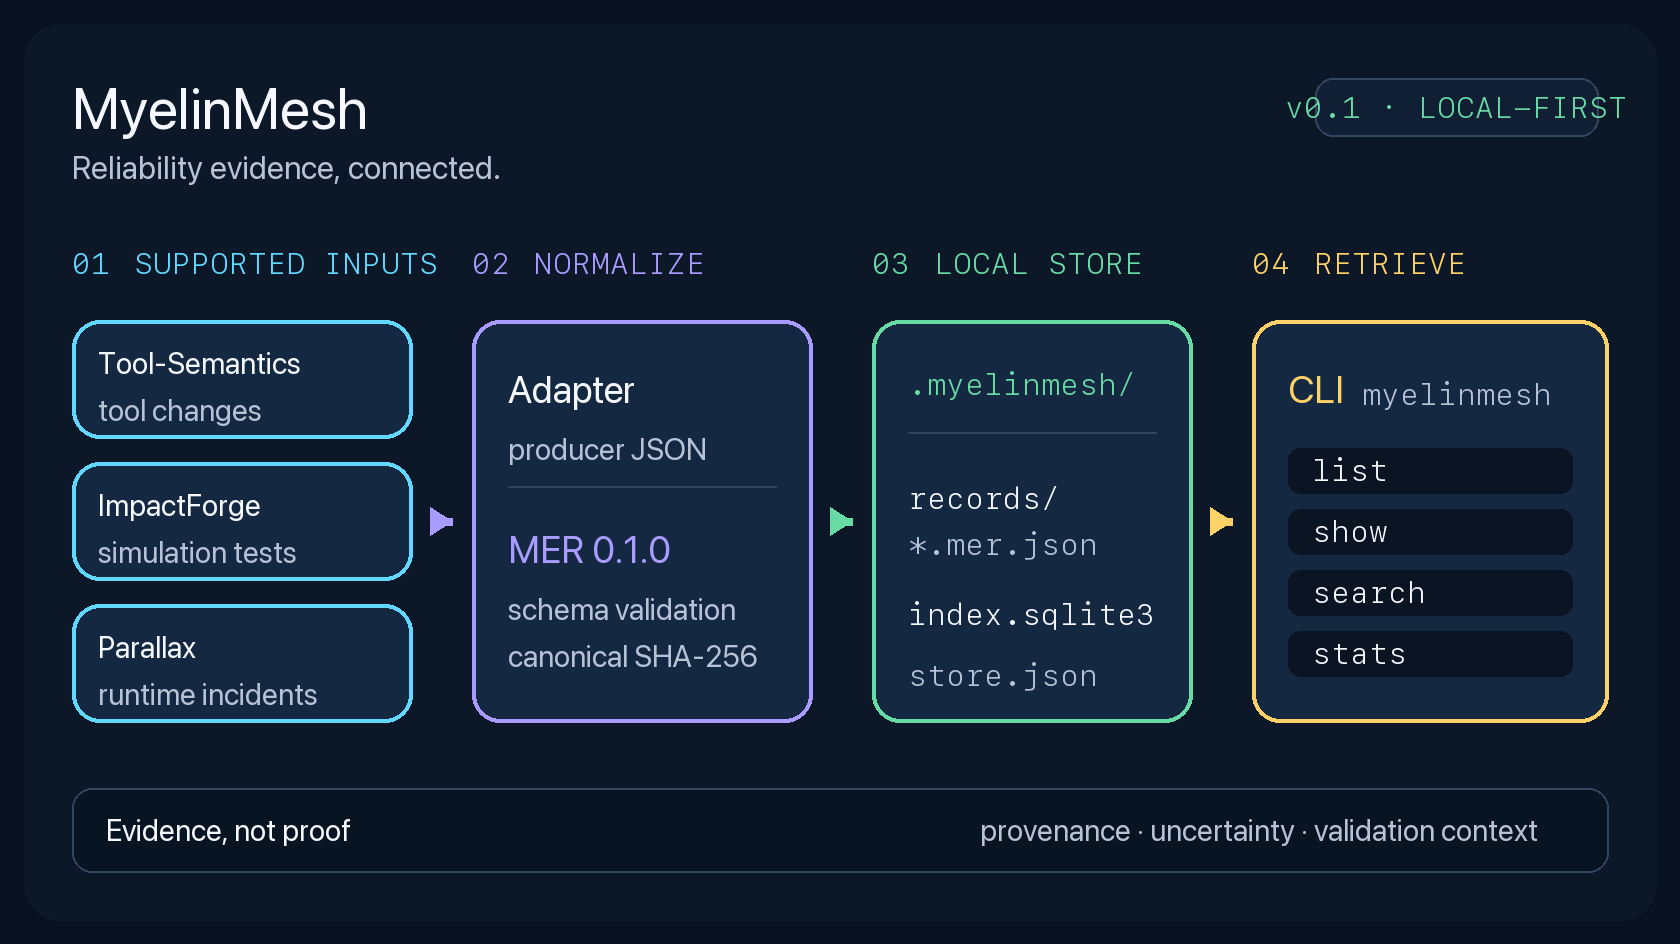
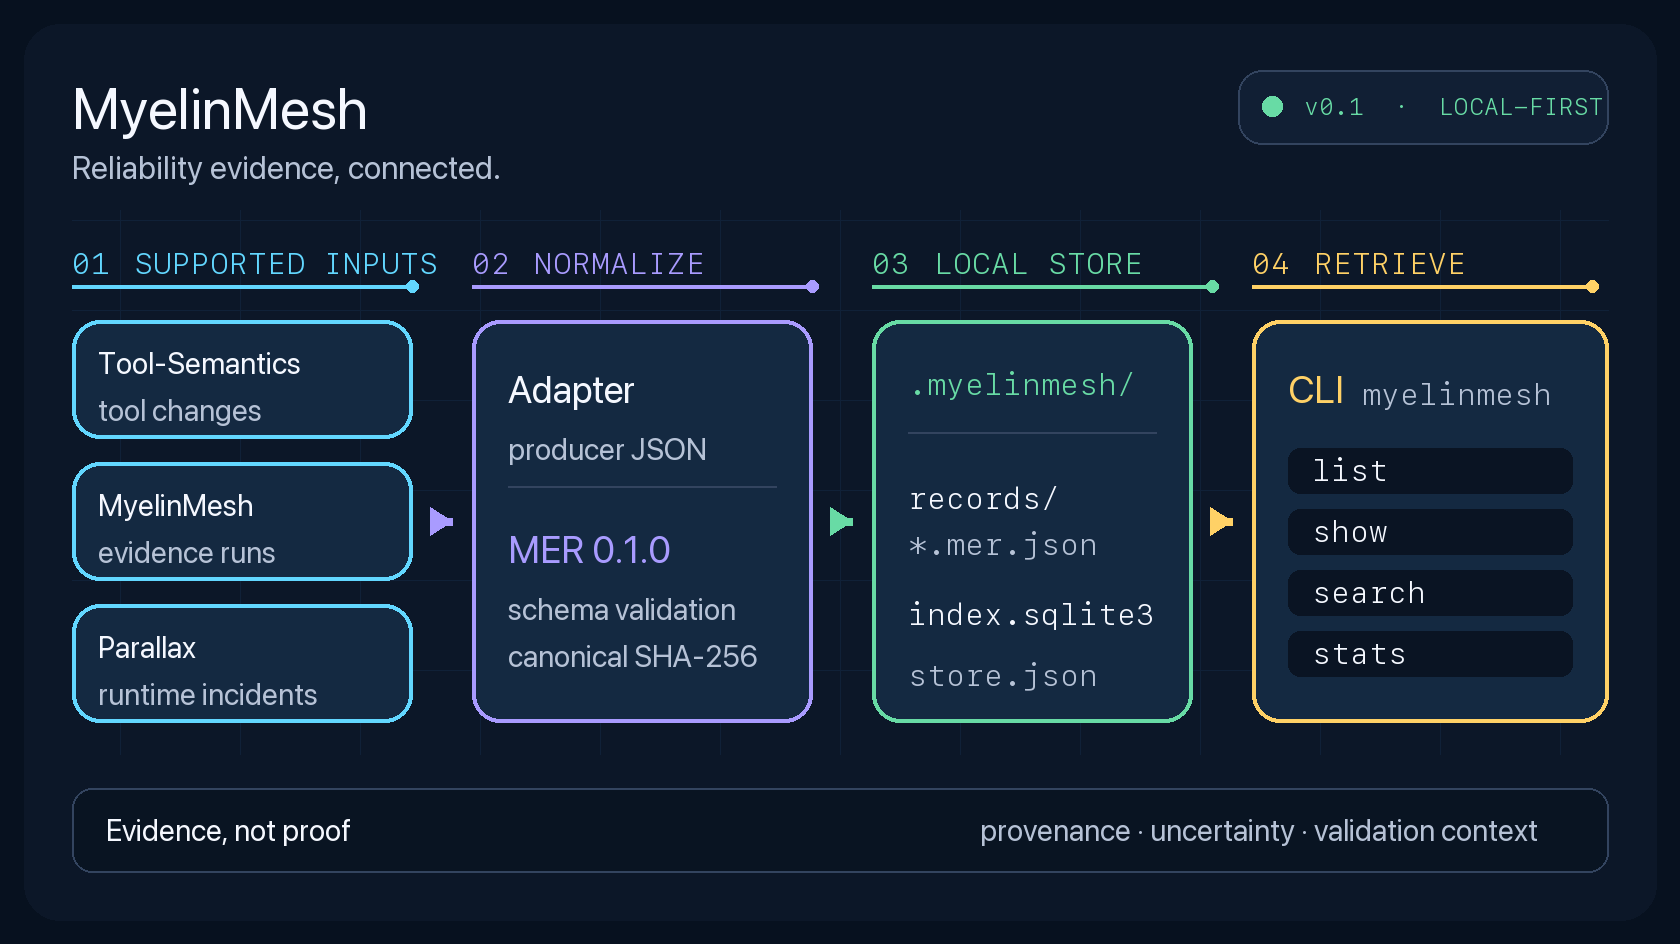
refactor: align integrations with MyelinMesh identity (#24)

diff --git a/scripts/render_readme_demo.py b/scripts/render_readme_demo.py
@@ -51,6 +51,7 @@ CARD_TITLE = _font(38)
 BODY = _font(30)
 SMALL = _font(30)
 MONO = _font(30, mono=True)
+BADGE = _font(24, mono=True)
 
 
 def _card(
@@ -89,10 +90,16 @@ def _stage_heading(
     *,
     active: bool,
     accent: str,
+    pulse: float | None = None,
 ) -> None:
     color = accent if active else SUBTLE
     draw.text((x, 245), number, font=EYEBROW, fill=color)
     draw.text((x + 62, 245), label, font=EYEBROW, fill=color)
+    rail_start = x
+    rail_end = x + 340
+    draw.line((rail_start, 286, rail_end, 286), fill=color if active else RULE, width=4)
+    marker_x = rail_end if pulse is None else int(rail_start + ((rail_end - rail_start) * pulse))
+    draw.ellipse((marker_x - 6, 280, marker_x + 6, 292), fill=color if active else RULE)
 
 
 def _source_card(
@@ -109,28 +116,68 @@ def _source_card(
     draw.text((98, y + 72), detail, font=SMALL, fill=MUTED if active else SUBTLE)
 
 
-def _render(active_stage: str | None) -> Image.Image:
+def _render(active_stage: str | None, *, pulse: float | None = None) -> Image.Image:
     image = Image.new("RGB", (WIDTH, HEIGHT), BACKGROUND)
     draw = ImageDraw.Draw(image)
     draw.rounded_rectangle((24, 24, WIDTH - 24, HEIGHT - 24), radius=36, fill=SURFACE)
 
+    # A restrained grid gives the frame depth while keeping the text layer clean.
+    for x in range(120, WIDTH - 80, 120):
+        draw.line((x, 210, x, 754), fill="#102138", width=1)
+    for y in range(220, 760, 90):
+        draw.line((72, y, WIDTH - 72, y), fill="#102138", width=1)
+
     draw.text((72, 72), "MyelinMesh", font=TITLE, fill=TEXT)
     draw.text((72, 148), "Reliability evidence, connected.", font=SUBTITLE, fill=MUTED)
-    draw.rounded_rectangle((1315, 78, 1598, 136), radius=18, fill=CARD, outline=RULE, width=2)
-    draw.text((1456, 107), "v0.1 · LOCAL-FIRST", font=EYEBROW, fill=GREEN, anchor="mm")
+    # Keep the status badge in its own generous inset so it never crowds the title.
+    draw.rounded_rectangle((1238, 70, 1608, 144), radius=24, fill=CARD, outline=RULE, width=2)
+    draw.ellipse((1262, 96, 1282, 116), fill=GREEN)
+    draw.text((1304, 106), "v0.1  ·  LOCAL-FIRST", font=BADGE, fill=GREEN, anchor="lm")
 
     source_active = active_stage in (None, "sources")
     normalize_active = active_stage in (None, "normalize")
     store_active = active_stage in (None, "store")
     retrieve_active = active_stage in (None, "retrieve")
 
-    _stage_heading(draw, 72, "SUPPORTED INPUTS", "01", active=source_active, accent=CYAN)
-    _stage_heading(draw, 472, "NORMALIZE", "02", active=normalize_active, accent=VIOLET)
-    _stage_heading(draw, 872, "LOCAL STORE", "03", active=store_active, accent=GREEN)
-    _stage_heading(draw, 1252, "RETRIEVE", "04", active=retrieve_active, accent=YELLOW)
+    _stage_heading(
+        draw,
+        72,
+        "SUPPORTED INPUTS",
+        "01",
+        active=source_active,
+        accent=CYAN,
+        pulse=pulse if active_stage == "sources" else None,
+    )
+    _stage_heading(
+        draw,
+        472,
+        "NORMALIZE",
+        "02",
+        active=normalize_active,
+        accent=VIOLET,
+        pulse=pulse if active_stage == "normalize" else None,
+    )
+    _stage_heading(
+        draw,
+        872,
+        "LOCAL STORE",
+        "03",
+        active=store_active,
+        accent=GREEN,
+        pulse=pulse if active_stage == "store" else None,
+    )
+    _stage_heading(
+        draw,
+        1252,
+        "RETRIEVE",
+        "04",
+        active=retrieve_active,
+        accent=YELLOW,
+        pulse=pulse if active_stage == "retrieve" else None,
+    )
 
     _source_card(draw, 320, "Tool-Semantics", "tool changes", active=source_active)
-    _source_card(draw, 462, "ImpactForge", "simulation tests", active=source_active)
+    _source_card(draw, 462, "MyelinMesh", "evidence runs", active=source_active)
     _source_card(draw, 604, "Parallax", "runtime incidents", active=source_active)
 
     normalize_box = (472, 320, 812, 722)
@@ -197,7 +244,8 @@ def _render(active_stage: str | None) -> Image.Image:
 
 def main() -> None:
     ASSET_DIR.mkdir(parents=True, exist_ok=True)
-    frames = [_render(stage) for stage in STAGES]
+    animation = [(stage, pulse) for stage in STAGES for pulse in (0.12, 0.82)]
+    frames = [_render(stage, pulse=pulse) for stage, pulse in animation]
     overview = _render(None)
     frames.append(overview)
 
@@ -211,7 +259,7 @@ def main() -> None:
         gif_path,
         save_all=True,
         append_images=paletted[1:],
-        duration=[1100, 1200, 1200, 1200, 1900],
+        duration=[650] * 8 + [1900],
         loop=0,
         optimize=True,
         disposal=2,

diff --git a/src/myelinmesh/adapters/myelinmesh.py b/src/myelinmesh/adapters/myelinmesh.py
@@ -15,14 +15,14 @@ from myelinmesh.models import (
 )
 
 
-class ImpactForgeAdapter:
-    name = "impactforge"
+class MyelinMeshAdapter:
+    name = "myelinmesh"
 
     def can_handle(self, payload: dict[str, object]) -> bool:
         return (
             "scenario" in payload
             and "metrics" in payload
-            and ("release_decision" in payload or payload.get("producer") == "impactforge")
+            and ("release_decision" in payload or payload.get("producer") == "myelinmesh")
         )
 
     def convert(self, payload: dict[str, object]) -> list[EvidenceRecord]:
@@ -31,13 +31,13 @@ class ImpactForgeAdapter:
         return [
             EvidenceRecord(
                 identity=Identity(
-                    evidence_id=str(payload.get("evidence_id", "impactforge-import")),
-                    project="impactforge",
+                    evidence_id=str(payload.get("evidence_id", "myelinmesh-import")),
+                    project="myelinmesh",
                     captured_at=captured_at(payload),
                 ),
                 provenance=Provenance(
                     source_type=SourceType.SIMULATION,
-                    producer="impactforge",
+                    producer="myelinmesh",
                     producer_version=str(payload.get("version", "unknown")),
                 ),
                 context=Context(
@@ -61,6 +61,6 @@ class ImpactForgeAdapter:
                     severity=Severity.CRITICAL if failed else Severity.INFO,
                 ),
                 validation=ValidationEvidence(real_or_synthetic=SourceType.SIMULATION),
-                tags=["impactforge", "physical-ai", "adapter-import"],
+                tags=["myelinmesh", "physical-ai", "adapter-import"],
             )
         ]

diff --git a/src/myelinmesh/cli.py b/src/myelinmesh/cli.py
@@ -9,7 +9,7 @@ from rich.console import Console
 from rich.table import Table
 
 from myelinmesh import __version__
-from myelinmesh.adapters import ImpactForgeAdapter, ParallaxAdapter, ToolSemanticsAdapter
+from myelinmesh.adapters import MyelinMeshAdapter, ParallaxAdapter, ToolSemanticsAdapter
 from myelinmesh.adapters.base import EvidenceAdapter
 from myelinmesh.hashing import compute_content_hash, verify_content_hash
 from myelinmesh.io import EvidenceFileError, read_record, write_record
@@ -91,7 +91,7 @@ def ingest(
 @app.command()
 def adapt(
     producer: Annotated[
-        str, typer.Argument(help="Producer: tool-semantics, impactforge, or parallax.")
+        str, typer.Argument(help="Producer: tool-semantics, myelinmesh, or parallax.")
     ],
     input_file: Annotated[Path, typer.Argument(exists=True, readable=True)],
     output_dir: Annotated[Path, typer.Option("--output-dir")] = Path("converted-evidence"),
@@ -99,7 +99,7 @@ def adapt(
     """Convert a supported producer report into MER records."""
     adapters: dict[str, EvidenceAdapter] = {
         "tool-semantics": ToolSemanticsAdapter(),
-        "impactforge": ImpactForgeAdapter(),
+        "myelinmesh": MyelinMeshAdapter(),
         "parallax": ParallaxAdapter(),
     }
     adapter = adapters.get(producer)

diff --git a/tests/test_adapters.py b/tests/test_adapters.py
@@ -3,7 +3,7 @@ from __future__ import annotations
 import json
 from pathlib import Path
 
-from myelinmesh.adapters import ImpactForgeAdapter, ParallaxAdapter, ToolSemanticsAdapter
+from myelinmesh.adapters import MyelinMeshAdapter, ParallaxAdapter, ToolSemanticsAdapter
 
 
 def load(name: str) -> dict[str, object]:
@@ -18,9 +18,9 @@ def test_tool_semantics_adapter() -> None:
     assert record.failure is not None and record.failure.detected
 
 
-def test_impactforge_adapter() -> None:
-    adapter = ImpactForgeAdapter()
-    payload = load("impactforge-report.json")
+def test_myelinmesh_adapter() -> None:
+    adapter = MyelinMeshAdapter()
+    payload = load("myelinmesh-report.json")
     assert adapter.can_handle(payload)
     record = adapter.convert(payload)[0]
     assert record.context.domain.value == "physical_ai"

diff --git a/src/myelinmesh/adapters/__init__.py b/src/myelinmesh/adapters/__init__.py
@@ -1,5 +1,5 @@
-from myelinmesh.adapters.impactforge import ImpactForgeAdapter
+from myelinmesh.adapters.myelinmesh import MyelinMeshAdapter
 from myelinmesh.adapters.parallax import ParallaxAdapter
 from myelinmesh.adapters.tool_semantics import ToolSemanticsAdapter
 
-__all__ = ["ImpactForgeAdapter", "ParallaxAdapter", "ToolSemanticsAdapter"]
+__all__ = ["MyelinMeshAdapter", "ParallaxAdapter", "ToolSemanticsAdapter"]

diff --git a/README.md b/README.md
@@ -13,7 +13,7 @@ The name draws from biological **myelin**, which insulates and accelerates signa
 
 <picture>
   <source media="(prefers-reduced-motion: reduce)" srcset="docs/assets/myelinmesh-evidence-flow-static.png">
-  <img src="docs/assets/myelinmesh-evidence-flow.gif" alt="MyelinMesh evidence flow: Tool-Semantics, ImpactForge, and Parallax reports pass through adapters, schema validation, and canonical hashing into MER JSON records and a SQLite metadata index, then become available through CLI list, show, search, and stats commands" width="840">
+  <img src="docs/assets/myelinmesh-evidence-flow.gif" alt="MyelinMesh evidence flow: Tool-Semantics, MyelinMesh, and Parallax reports pass through adapters, schema validation, and canonical hashing into MER JSON records and a SQLite metadata index, then become available through CLI list, show, search, and stats commands" width="840">
 </picture>
 
 <p align="center"><em>Supported v0.1 path: reports → validated MER → local JSON/SQLite → CLI.</em></p>
@@ -21,7 +21,7 @@ The name draws from biological **myelin**, which insulates and accelerates signa
 <details>
 <summary>Text version of the evidence flow</summary>
 
-1. Tool-Semantics, ImpactForge, and Parallax reports enter through their supported adapters.
+1. Tool-Semantics, MyelinMesh, and Parallax reports enter through their supported adapters.
 2. Pydantic and JSON Schema validate each MyelinMesh Evidence Record (MER).
 3. Canonical JSON produces a SHA-256 content hash.
 4. MER JSON files and SQLite metadata are written under `.myelinmesh/`.
@@ -43,7 +43,7 @@ MyelinMesh gives these artifacts a shared record format and a local-first store 
 
 ```text
 Tool-Semantics ─┐
-ImpactForge ─────┼──► validate + hash ─► MER JSON + SQLite ─► list · show · search · stats
+MyelinMesh ─────┼──► validate + hash ─► MER JSON + SQLite ─► list · show · search · stats
 Parallax ────────┘
 ```
 
@@ -53,7 +53,7 @@ Parallax ────────┘
 - Deterministic validation and content hashing.
 - Local evidence store backed by JSON files and SQLite metadata.
 - CLI for initialization, validation, ingestion, search, inspection, and statistics.
-- Adapters for Tool-Semantics, ImpactForge, and Parallax-style outputs.
+- Adapters for Tool-Semantics, MyelinMesh, and Parallax-style outputs.
 - Example records covering tool drift, physical regression, and runtime recovery.
 - JSON Schema export for non-Python producers.
 
@@ -132,7 +132,7 @@ The demo creates an isolated `.myelinmesh-demo` store, ingests all three include
 
 ```text
 Producers
-  GitHub · Tool-Semantics · ImpactForge · Parallax · ROS 2 · OTel
+  GitHub · Tool-Semantics · MyelinMesh · Parallax · ROS 2 · OTel
                                 │
                                 ▼
                      Adapter and validation layer
@@ -154,7 +154,7 @@ See [docs/architecture.md](docs/architecture.md) and [docs/evidence-model.md](do
 ## Relationship to the existing projects
 
 - **Tool-Semantics** produces evidence about tool schemas, descriptions, selection behavior, side effects, and compatibility risk.
-- **ImpactForge** produces evidence about change impact, selected physical tests, simulation metrics, and release decisions.
+- **MyelinMesh** produces evidence about change impact, selected physical tests, simulation metrics, and release decisions.
 - **Parallax** produces semantic traces, early warnings, diagnoses, recovery attempts, and post-recovery outcomes.
 - **MyelinMesh** connects those records without replacing the source systems.
 

diff --git a/VALIDATION_REPORT.md b/VALIDATION_REPORT.md
@@ -14,7 +14,7 @@ Prepared: 2026-08-04
 - Ruff linting and formatting checks pass.
 - mypy reports no issues across all 12 source files.
 - CLI smoke tests completed for initialization, validation, ingestion, search, statistics, and adapter conversion.
-- The demo ingested Tool-Semantics, ImpactForge, and Parallax records successfully.
+- The demo ingested Tool-Semantics, MyelinMesh, and Parallax records successfully.
 - Editable installation was tested in a clean Python 3.13 virtual environment.
 - MkDocs builds successfully in strict mode.
 - Docker Compose configuration and the Python 3.12 container image build successfully.

diff --git a/START_HERE.md b/START_HERE.md
@@ -61,7 +61,7 @@ make demo
 3. Add OpenTelemetry JSON export ingestion.
 4. Add GitHub pull-request change evidence ingestion.
 5. Add artifact checksum verification.
-6. Build the first history-aware ImpactForge benchmark fixture.
+6. Build the first history-aware MyelinMesh benchmark fixture.
 7. Build usage-weighted Tool-Semantics severity fixtures.
 8. Build Parallax incident-retrieval benchmark fixtures.
 

diff --git a/ROADMAP.md b/ROADMAP.md
@@ -35,7 +35,7 @@
 ## Milestone 3 — Project integrations
 
 - [ ] Tool-Semantics usage-weighted change risk
-- [ ] ImpactForge history-aware scenario ranking
+- [ ] MyelinMesh history-aware scenario ranking
 - [ ] Parallax similar-incident and recovery retrieval
 - [ ] Bidirectional links from source reports to MER records
 - [ ] Shared GitHub Action for publishing evidence

diff --git a/PACKAGE_MANIFEST.md b/PACKAGE_MANIFEST.md
@@ -24,7 +24,7 @@
 - MER Pydantic model
 - Canonical hashing and validation
 - JSON + SQLite local evidence store
-- Tool-Semantics, ImpactForge, and Parallax adapters
+- Tool-Semantics, MyelinMesh, and Parallax adapters
 - Typer/Rich command-line interface
 - Generated JSON Schema under `schemas/`
 - Example evidence and producer reports under `examples/`

diff --git a/docs/integration-contracts.md b/docs/integration-contracts.md
@@ -17,7 +17,7 @@ Recommended MER mapping:
 - `failure.failure_class = semantic_tool_drift` when behavior regresses
 - linked reports are stored as artifact references
 
-## ImpactForge adapter
+## MyelinMesh adapter
 
 Expected input categories:
 

diff --git a/docs/architecture.md b/docs/architecture.md
@@ -13,7 +13,7 @@
 
 ```text
 Producer systems
-  Tool-Semantics · ImpactForge · Parallax · GitHub · ROS 2 · OTel
+  Tool-Semantics · MyelinMesh · Parallax · GitHub · ROS 2 · OTel
        │
        ▼
 Adapters
